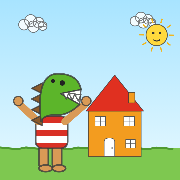
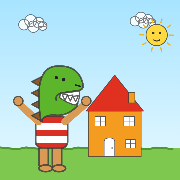
Finetuning: trapjes, geen dubbele muziek, vrolijker dino-gezicht
- Platforms herbouwd als echte trapjes: lage trede (370) naar hoge
  trede (280) is nu goed te springen; hoge platforms zijn vanaf de
  grond onbereikbaar, alleen via een trede of paddenstoel
- Vangbereik van items verkleind (58 naar 35 px) zodat je hoge items
  niet meer met een sprong vanaf de grond kunt plukken
- Muziek: elk deuntje speelt nu via een eigen gain-node die bij het
  wisselen direct uitfadet - geen dubbele noten meer bij levelstart
- Dino-gezicht naar de tekening: groter rond hoofd boven de bek,
  kleine oogjes, streepje als neus en een krullende lach-mondhoek
- App-iconen opnieuw gegenereerd met het nieuwe gezicht

Claude-Session: https://claude.ai/code/session_01B8XbmKNhMzRDaDL6eMFTh2

Changed region(s): [[0.1667, 0.3611, 0.4722, 0.7222], [0.3056, 0.6111, 0.3889, 0.6667]]

diff --git a/index.html b/index.html
@@ -105,10 +105,18 @@ const TUNES={
     mel:[[72,.5],[76,.5],[79,.5],[84,1],[79,.5],[84,1],[83,.5],[84,.5],[86,.5],[88,1.5],[84,.5],[81,.5],[79,.5],[76,.5],[72,.5],[74,.5],[76,.5],[79,1.5]],
     bass:[[48,1],[52,1],[43,1],[47,1],[45,1],[48,1],[43,1],[43,1]]}
 };
-function stopTune(){ if(tuneTimer){clearTimeout(tuneTimer);tuneTimer=null;} curTune=null; }
+let curTuneGain=null;
+function stopTune(){
+  if(tuneTimer){clearTimeout(tuneTimer);tuneTimer=null;}
+  if(curTuneGain&&AC){ const g=curTuneGain;      /* oude noten direct uitfaden */
+    g.gain.setTargetAtTime(0,AC.currentTime,0.03);
+    setTimeout(()=>{try{g.disconnect();}catch(e){}},400); }
+  curTuneGain=null; curTune=null; pendingTune=null;
+}
 function playTune(name){
   stopTune(); curTune=name;
   if(!AC){ pendingTune=name; return; }
+  const tg=AC.createGain(); tg.connect(musicGain); curTuneGain=tg;
   const tn=TUNES[name], beat=60/tn.bpm;
   const melBeats=tn.mel.reduce((s,n)=>s+n[1],0);
   const bassBeats=tn.bass.reduce((s,n)=>s+n[1],0);
@@ -116,9 +124,9 @@ function playTune(name){
   function loop(t0){
     if(curTune!==name) return;
     let t=t0;
-    for(const [m,b] of tn.mel){ tone(m,t,b*beat*0.9,tn.wave,musicGain,tn.vol); t+=b*beat; }
+    for(const [m,b] of tn.mel){ tone(m,t,b*beat*0.9,tn.wave,tg,tn.vol); t+=b*beat; }
     t=t0;
-    for(const [m,b] of tn.bass){ tone(m,t,b*beat*0.9,'triangle',musicGain,.8); t+=b*beat; }
+    for(const [m,b] of tn.bass){ tone(m,t,b*beat*0.9,'triangle',tg,.8); t+=b*beat; }
     const next=t0+loopBeats*beat;
     tuneTimer=setTimeout(()=>loop(next),(next-AC.currentTime)*1000-80);
   }
@@ -160,26 +168,26 @@ btnM.addEventListener('click',e=>{ensureAudio();toggleMusic();e.stopPropagation(
 const LEVELS=[
  {naam:'De Zonnige Weide', tune:'weide', item:'balk', doel:'Verzamel 6 houten balken!',
   sky:['#a8e4ff','#eafaff'], breedte:2800,
-  plats:[[500,370,160],[860,300,150],[1250,360,170],[1700,280,150],[2150,350,160]],
-  items:[[330,440],[575,335],[935,265],[1330,325],[1770,245],[2450,440]],
-  mush:[1050], bushes:[1500,2050], snails:[]},
+  plats:[[420,370,150],[640,280,150],[1150,370,150],[1370,280,150],[1950,370,150]],
+  items:[[300,440],[690,245],[1200,335],[1440,245],[2020,335],[2450,440]],
+  mush:[2600], bushes:[900,1700], snails:[]},
  {naam:'Het Stenen Bos', tune:'bos', item:'steen', doel:'Verzamel 8 oranje stenen!',
   sky:['#8fd4a8','#e3f6e0'], breedte:3000,
-  plats:[[450,370,150],[800,290,140],[1150,360,160],[1500,280,150],[1850,360,150],[2300,300,160]],
-  items:[[250,440],[520,335],[870,255],[1220,325],[1570,245],[1920,325],[2370,265],[2750,440]],
-  mush:[2600], bushes:[1000,2100], snails:[[1250,1700]]},
+  plats:[[400,370,150],[620,280,150],[1100,370,150],[1320,280,150],[1800,370,150],[2020,280,150],[2450,370,150]],
+  items:[[250,440],[470,335],[690,245],[1170,335],[1390,245],[1870,335],[2090,245],[2750,440]],
+  mush:[2600], bushes:[950,2250], snails:[[1450,1750]]},
  {naam:'De Regenboogrivier', tune:'rivier', item:'raam', doel:'Verzamel 4 ramen en de deur!',
   sky:['#b8c8ff','#eef2ff'], breedte:3000,
-  plats:[[520,370,160],[1120,290,150],[1720,360,160],[2220,300,150]],
-  items:[[600,335],[1195,255],[1800,325],[2295,265],[2750,435]],
+  plats:[[500,370,160],[730,280,150],[1300,370,160],[1530,280,150],[2100,370,160]],
+  items:[[780,245],[1360,335],[1580,245],[2170,335],[2750,435]],
   kinds:['raam','raam','raam','raam','deur'],
-  mush:[900], bushes:[1500], snails:[[1850,2250]]},
+  mush:[1000], bushes:[1850], snails:[[2300,2650]]},
  {naam:'De Dakpannenberg', tune:'berg', item:'dakpan', doel:'Verzamel 8 dakpannen en de schoorsteen!',
   sky:['#c8d8e8','#f2f6fa'], breedte:3200,
-  plats:[[400,370,150],[750,300,140],[1100,370,150],[1450,290,150],[1800,370,150],[2150,300,150],[2500,370,150],[2850,240,160]],
-  items:[[200,440],[470,335],[820,265],[1170,335],[1520,255],[1870,335],[2220,265],[2570,335],[2925,205]],
+  plats:[[400,370,150],[620,280,150],[1100,370,150],[1320,280,150],[1800,370,150],[2020,280,150],[2620,370,150],[2850,240,160]],
+  items:[[200,440],[470,335],[690,245],[1170,335],[1390,245],[1870,335],[2090,245],[2690,335],[2925,205]],
   kinds:['dakpan','dakpan','dakpan','dakpan','dakpan','dakpan','dakpan','dakpan','schoorsteen'],
-  mush:[3000], bushes:[950,2050], snails:[[1600,2000]]}
+  mush:[3050], bushes:[950,2300], snails:[[1500,1900]]}
 ];
 LEVELS.forEach(L=>{ if(!L.kinds) L.kinds=L.items.map(()=>L.item); });
 
@@ -294,7 +302,7 @@ function update(dt){
     /* verzamelen */
     for(const it of items){
       it.bob+=dt*3;
-      if(!it.got && Math.abs(P.x-it.x)<42 && Math.abs((P.y-45)-it.y)<58){
+      if(!it.got && Math.abs(P.x-it.x)<42 && Math.abs((P.y-45)-it.y)<35){
         it.got=true; sfxCollect();
         if(gotCount()===items.length){ doneT=0; sfxFanfare(false); }
       }
@@ -380,32 +388,42 @@ function drawDino(x,y,face,walk,inAir,armsUp,sc){
   ctx.beginPath(); ctx.arc(omhoog?52:38,hy2,7,0,7); ctx.fill(); ctx.stroke();
   /* stekels op de rug (bruin) */
   ctx.fillStyle=C.stekelBruin; ctx.strokeStyle=C.lijn; ctx.lineWidth=2;
-  for(let i=0;i<4;i++){ const sy=-128+i*16;
-    ctx.beginPath(); ctx.moveTo(-14,sy); ctx.lineTo(-30,sy+8); ctx.lineTo(-14,sy+16);
+  for(let i=0;i<4;i++){ const sy=-138+i*17;
+    ctx.beginPath(); ctx.moveTo(-14,sy); ctx.lineTo(-30,sy+8); ctx.lineTo(-14,sy+17);
     ctx.closePath(); ctx.fill(); ctx.stroke(); }
-  /* kop: groot en groen met open bek */
+  /* kop: groot rond hoofd boven de bek, zoals op de tekening */
   ctx.fillStyle=C.dinoGroen; ctx.strokeStyle=C.lijn; ctx.lineWidth=2.5;
   ctx.beginPath();
   ctx.moveTo(-16,-70);
-  ctx.quadraticCurveTo(-24,-140,8,-142);
-  ctx.quadraticCurveTo(40,-142,44,-118);
-  ctx.lineTo(14,-112);            /* bovenkaak naar mondhoek */
-  ctx.lineTo(42,-96);             /* onderkaak punt */
-  ctx.quadraticCurveTo(24,-78,4,-80);
+  ctx.quadraticCurveTo(-28,-148,4,-153);
+  ctx.quadraticCurveTo(40,-157,47,-126);
+  ctx.quadraticCurveTo(48,-119,42,-117);
+  ctx.lineTo(14,-113);            /* bovenlip naar mondhoek */
+  ctx.quadraticCurveTo(44,-110,38,-93);   /* onderkaak */
+  ctx.quadraticCurveTo(22,-77,4,-80);
   ctx.quadraticCurveTo(-12,-80,-16,-70);
   ctx.closePath(); ctx.fill(); ctx.stroke();
-  /* open bek met witte zigzag-tanden */
+  /* vrolijke open mond met witte zigzag-tanden */
   ctx.fillStyle='#fff'; ctx.strokeStyle=C.lijn; ctx.lineWidth=1.8;
-  ctx.beginPath(); ctx.moveTo(14,-112); ctx.lineTo(44,-118); ctx.lineTo(42,-96); ctx.closePath();
-  ctx.fill(); ctx.stroke();
-  ctx.fillStyle='#fff';
-  for(let i=0;i<3;i++){ const tx=17+i*9;
-    ctx.beginPath(); ctx.moveTo(tx,-113+i*1.5); ctx.lineTo(tx+5,-104+i*1.5); ctx.lineTo(tx+9,-114+i*1.5);
+  ctx.beginPath();
+  ctx.moveTo(13,-112);
+  ctx.lineTo(42,-116);
+  ctx.quadraticCurveTo(42,-98,35,-95);
+  ctx.quadraticCurveTo(23,-98,12,-106);   /* onderrand krult omhoog: lachen! */
+  ctx.closePath(); ctx.fill(); ctx.stroke();
+  for(let i=0;i<3;i++){ const tx=16+i*8;
+    ctx.beginPath(); ctx.moveTo(tx,-110+i); ctx.lineTo(tx+4,-102+i); ctx.lineTo(tx+8,-111+i);
     ctx.closePath(); ctx.fill(); ctx.stroke(); }
-  /* oog */
+  /* mondhoek-krul */
+  ctx.strokeStyle=C.lijn; ctx.lineWidth=2.5;
+  ctx.beginPath(); ctx.moveTo(13,-112); ctx.quadraticCurveTo(5,-110,7,-102); ctx.stroke();
+  /* kleine oogjes */
   ctx.fillStyle='#222';
-  ctx.beginPath(); ctx.arc(16,-128,4,0,7); ctx.fill();
-  ctx.beginPath(); ctx.arc(2,-131,3,0,7); ctx.fill();
+  ctx.beginPath(); ctx.arc(18,-133,2.6,0,7); ctx.fill();
+  ctx.beginPath(); ctx.arc(7,-136,2.4,0,7); ctx.fill();
+  /* streepje als neus */
+  ctx.strokeStyle='#222'; ctx.lineWidth=2;
+  ctx.beginPath(); ctx.moveTo(36,-125); ctx.lineTo(43,-123); ctx.stroke();
   ctx.restore();
 }
 /* ---------- HET HUIS van de tekening: oranje, rood puntdak ---------- */
